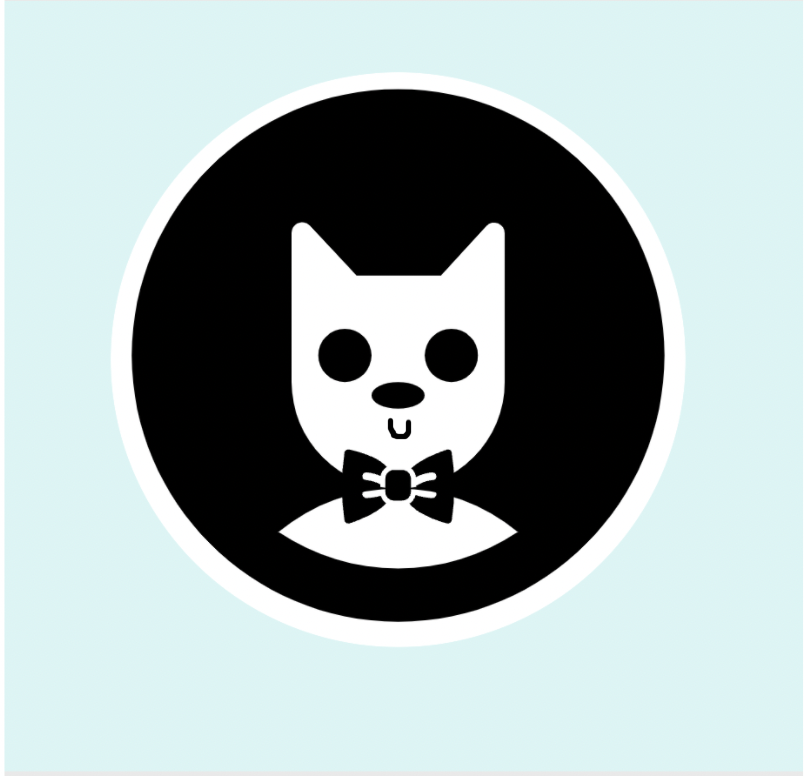
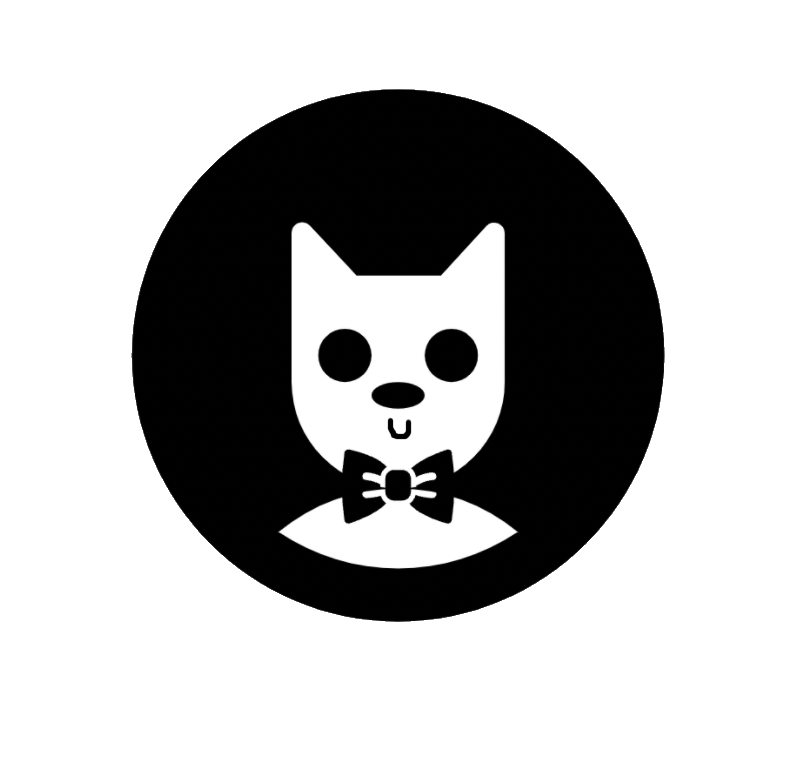
Added transparency to the outside of the cat image and made it rotate.

diff --git a/index.html b/index.html
@@ -10,7 +10,7 @@
   <body>
     <header id="top">
       <h1>Prework Study Guide</h1>
-      <img src="./assets/bowtie-cat.png" alt="Profile image of cat wearing a bow tie." width="100" height="auto"/>
+      <img src="./assets/bowtie-cat.png" alt="Profile image of cat wearing a bow tie." width="100" height="auto" class="rotate"/>
       <h2>✨ Please press F12 and switch to the console tab ✨</h2>
     </header>
     <main>

diff --git a/assets/style.css b/assets/style.css
@@ -24,6 +24,19 @@ img {
  margin-right: auto;
 }
 
+.rotate {
+animation: rotation 7s infinite linear;
+}
+
+@keyframes rotation {
+    from {
+        transform: rotate(0deg);
+    }
+    to {
+        transform: rotate(359deg);
+    }
+}
+
 ul {
  padding-left: 40px;
  font-size: 20px;
